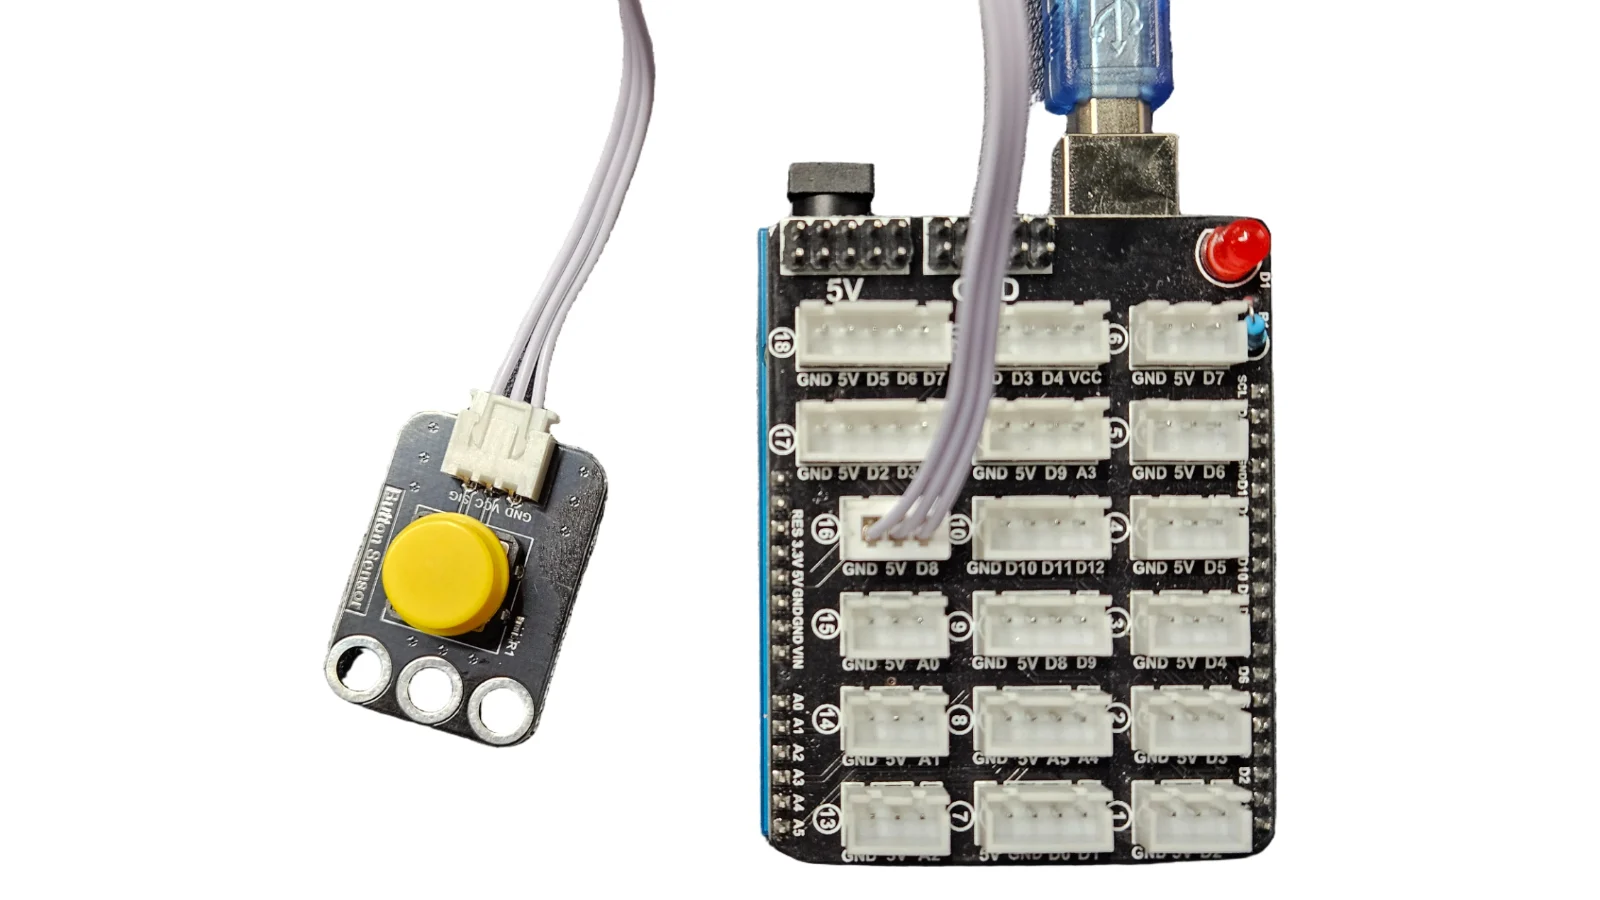
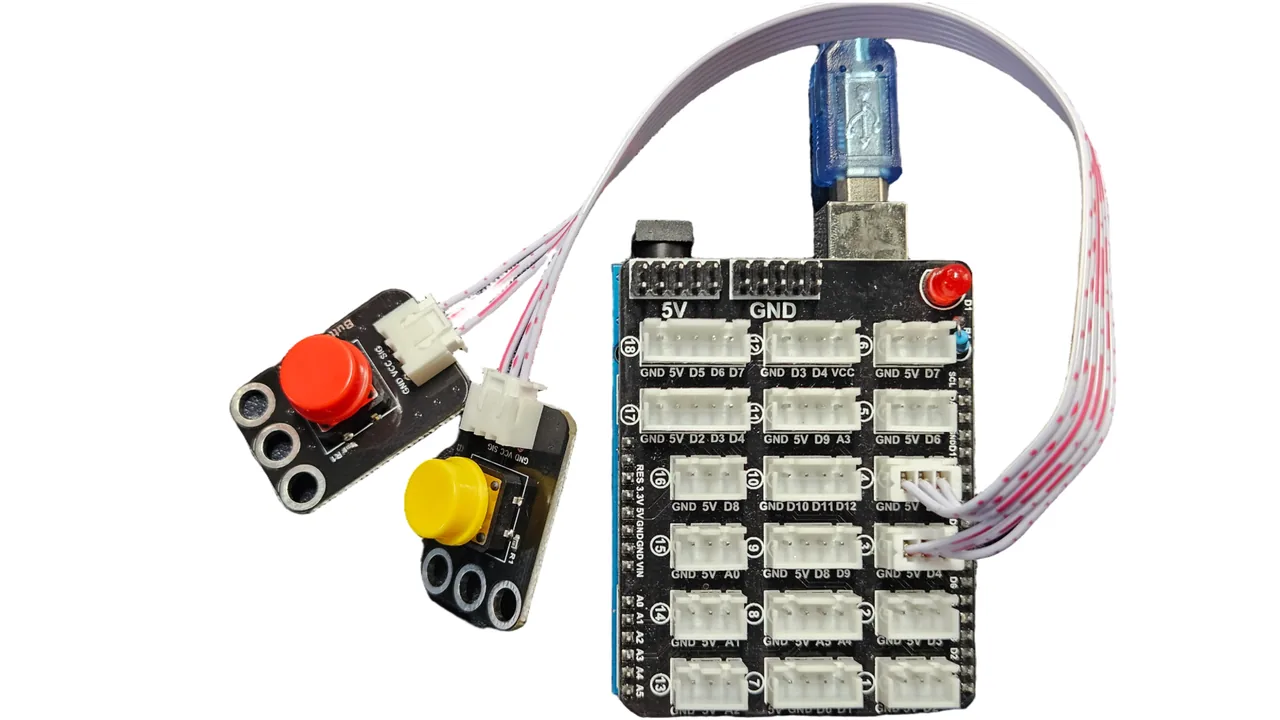
결선 사진 webp 갱신 + 두더지·청기백기 1판으로 단순화
- wiring-button: 새 결선 사진 png→webp 변환(옛 webp 덮어쓰기), png 정리
- 두더지: 2판(느긋·번개) → 1판(40초·목표14)으로 통합 — '왜 두 판?' 해소
- 청기백기: 2판 → 1판(명령14·목표10)으로 통합
- 단계 표기/통과 판정 단일 라운드 기준으로 정리

Claude-Session: https://claude.ai/code/session_01M8NgSv7uof5BXpE7mwceCw

diff --git a/src/scenes/buttonGame.js b/src/scenes/buttonGame.js
@@ -12,8 +12,7 @@ import { board } from '../app/board.js';
 const PINS = [4, 5];   // 구멍 0·1 ↔ 택트스위치 핀 D4·D5 (쉴드 포트 3·4)
 const HOLES = PINS.length;
 const GAMES = [
-  { key: 'easy', no: 1, name: '느긋한 두더지 들판', time: 30, target: 8,  upMin: 950, upMax: 1500, gapMin: 700, gapMax: 1100, golden: 0.16 },
-  { key: 'hard', no: 2, name: '번개 두더지 들판',   time: 30, target: 13, upMin: 650, upMax: 1050, gapMin: 460, gapMax: 820,  golden: 0.22 },
+  { key: 'main', no: 1, name: '두더지 들판', time: 40, target: 14, upMin: 800, upMax: 1300, gapMin: 560, gapMax: 980, golden: 0.18 },
 ];
 
 const bgImg = new Image(); bgImg.onerror = () => { if (!bgImg._p) { bgImg._p = 1; bgImg.src = '/brand/stage-button-bg.png'; } }; bgImg.src = '/brand/stage-button-bg.webp';
@@ -138,7 +137,7 @@ export function showButtonGame(root, { onExit } = {}) {
   root.querySelector('#bt-start').onclick = () => { root.querySelector('#bt-prep').classList.add('hide'); skipBtn.hidden = false; startFlow(); };
 
   // ── 플로우 ──
-  const cleared = { easy: false, hard: false };
+  const cleared = {};
   let gi = 0, game = GAMES[0];
   const holes = Array.from({ length: HOLES }, () => ({ up: false, hit: false, golden: false, t: 0, dur: 0, pop: 0 }));
   const whack = Array(HOLES).fill(0), parts = [], pops = [], hitFx = Array(HOLES).fill(0);
@@ -150,8 +149,8 @@ export function showButtonGame(root, { onExit } = {}) {
   function nextGame() { if (gi >= GAMES.length) { finishAll(); return; } game = GAMES[gi]; showIntro(); }
   function showIntro() {
     bgm.setDuck(1); hud.hidden = true;
-    const el = panel(`<div class="lp-no">${game.no} / ${GAMES.length} 단계</div><h2>🔨 ${game.name}</h2>
-      <p class="prep-sub">${game.time}초 안에 두더지를 <b>${game.target}마리</b> 이상 잡으면 통과! 튀어나온 두더지의 버튼(또는 구멍 클릭·1·2·3)을 재빨리 눌러요. ✨금두더지=3점, 연속으로 잡으면 콤보 보너스! ${game.no === 2 ? '두더지가 더 빨라요 ⚡' : ''}</p>
+    const el = panel(`<h2>🔨 ${game.name}</h2>
+      <p class="prep-sub">${game.time}초 안에 두더지를 <b>${game.target}마리</b> 이상 잡으면 통과! 튀어나온 두더지의 버튼(또는 구멍 클릭·1·2)을 재빨리 눌러요. ✨금두더지=3점, 연속으로 잡으면 콤보 보너스!</p>
       <p class="lp-cond">⏱ 시간 안에 🔨 목표 점수 달성 = 통과!</p><button class="cel-go" id="lp-go">시작 ▶</button>`);
     el.querySelector('#lp-go').onclick = () => { el.remove(); beginPlay(); };
   }
@@ -160,20 +159,20 @@ export function showButtonGame(root, { onExit } = {}) {
     for (const m of holes) Object.assign(m, { up: false, hit: false, golden: false, t: 0, dur: 0, pop: 0 });
     for (let i = 0; i < HOLES; i++) { whack[i] = 0; hitFx[i] = 0; }
     Object.assign(state, { phase: 'count', countT: performance.now(), score: 0, combo: 0, bestCombo: 0, target: game.target, timeLeft: game.time, ended: false, spawnAt: performance.now() + 800 });
-    elTarget.textContent = game.target; elStage.textContent = `${game.no}단계 · ${game.name}`; sync();
+    elTarget.textContent = game.target; elStage.textContent = game.name; sync();
     hud.hidden = false;
   }
   function showResult(grade, pass) {
     bgm.setDuck(1); const last = gi === GAMES.length - 1;
     const el = panel(`<div class="lp-grade lp-${grade}">${grade}<span>등급</span></div><h2>${pass ? '두더지 소탕! 🎉' : '시간 초과! ⏱'}</h2>
       <p class="prep-sub">${game.name} · 🔨 ${state.score}마리 (목표 ${state.target}) · 최고 콤보 ${state.bestCombo}</p>
-      <p class="lp-cond">${pass ? (last ? '두 들판 클리어! 메달을 받자 🏅' : '다음 들판으로 ▶') : `목표 ${state.target}마리에 조금 모자라요 — 다시!`}</p>
-      <button class="cel-go" id="lp-next">${pass ? (last ? '메달 받기 🏅' : '다음 들판 ▶') : '다시 도전 ▶'}</button>`);
+      <p class="lp-cond">${pass ? '두더지 소탕 완료! 메달을 받자 🏅' : `목표 ${state.target}마리에 조금 모자라요 — 다시!`}</p>
+      <button class="cel-go" id="lp-next">${pass ? '메달 받기 🏅' : '다시 도전 ▶'}</button>`);
     el.querySelector('#lp-next').onclick = () => { el.remove(); if (pass) { cleared[game.key] = true; gi++; nextGame(); } else beginPlay(); };
   }
   function finishAll() {
     cleanup();
-    if (cleared.easy && cleared.hard) { progress.mark('button'); celebrateRoom({ title: '두더지 마스터! 🔨', message: '버튼(디지털 입력)으로 두더지를 재빨리 잡았어요 — 🔨 두더지 메달 획득!', exitLabel: '전시관으로 ▶', onExit: () => onExit?.() }); }
+    if (GAMES.every((g) => cleared[g.key])) { progress.mark('button'); celebrateRoom({ title: '두더지 마스터! 🔨', message: '버튼(디지털 입력)으로 두더지를 재빨리 잡았어요 — 🔨 두더지 메달 획득!', exitLabel: '전시관으로 ▶', onExit: () => onExit?.() }); }
     else onExit?.();
   }
   skipBtn.onclick = () => { document.querySelectorAll('.led-panel').forEach((e) => e.remove()); cleared[game.key] = true; state.ended = true; state.phase = 'result'; bgm.setDuck(1); gi++; nextGame(); };

diff --git a/src/scenes/flagGame.js b/src/scenes/flagGame.js
@@ -15,8 +15,7 @@ const FLAGS = PINS.length;
 const COL = ['70,150,255', '232,236,244'];      // 청기 파랑 / 백기 흰
 const NAME = ['청기', '백기'];
 const GAMES = [
-  { key: 'easy', no: 1, name: '느긋한 청기백기', count: 12, target: 9,  window: 1700, gap: 600, trick: 0.22 },
-  { key: 'hard', no: 2, name: '번개 청기백기',   count: 14, target: 11, window: 1050, gap: 420, trick: 0.34 },
+  { key: 'main', no: 1, name: '청기백기', count: 14, target: 10, window: 1350, gap: 520, trick: 0.28 },
 ];
 
 const bgImg = new Image(); bgImg.onerror = () => { if (!bgImg._p) { bgImg._p = 1; bgImg.src = '/brand/stage-flag-bg.png'; } }; bgImg.src = '/brand/stage-flag-bg.webp';
@@ -140,7 +139,7 @@ export function showFlagGame(root, { onExit } = {}) {
   root.querySelector('#fl-start').onclick = () => { root.querySelector('#fl-prep').classList.add('hide'); skipBtn.hidden = false; startFlow(); };
 
   // ── 상태 ──
-  const cleared = { easy: false, hard: false };
+  const cleared = {};
   let gi = 0, game = GAMES[0];
   const up = [false, false];           // 깃발 상태(올림/내림)
   const anim = [{ t: 0 }, { t: 0 }];   // 토글 애니메이션
@@ -154,9 +153,9 @@ export function showFlagGame(root, { onExit } = {}) {
   function nextGame() { if (gi >= GAMES.length) { finishAll(); return; } game = GAMES[gi]; showIntro(); }
   function showIntro() {
     bgm.setDuck(1); hud.hidden = true; pads.hidden = true;
-    const el = panel(`<div class="lp-no">${game.no} / ${GAMES.length} 단계</div><h2>🚩 ${game.name}</h2>
+    const el = panel(`<h2>🚩 ${game.name}</h2>
       <p class="prep-sub">명령 <b>${game.count}</b>번 중 <b>${game.target}</b>번 이상 맞히면 통과! 진행자의 말을 잘 듣고 깃발을 올리거나 내려요.
-        <b>이미 그 상태면 가만히!</b> ${game.no === 2 ? '명령이 더 빨라요 ⚡' : ''}</p>
+        <b>이미 그 상태면 가만히!</b></p>
       <p class="lp-cond">🚩 청기=버튼1(D4·포트3) · 백기=버튼2(D5·포트4)</p><button class="cel-go" id="lp-go">시작 ▶</button>`);
     el.querySelector('#lp-go').onclick = () => { el.remove(); beginPlay(); };
   }
@@ -165,7 +164,7 @@ export function showFlagGame(root, { onExit } = {}) {
     up[0] = up[1] = false; anim[0].t = anim[1].t = 0;
     Object.assign(state, { phase: 'count', countT: performance.now(), score: 0, combo: 0, bestCombo: 0, target: game.target,
       ended: false, cmd: null, resolved: false, idx: 0, nextAt: performance.now() + 3000 + 400, judge: null });
-    elTarget.textContent = game.target; elStage.textContent = `${game.no}단계 · ${game.name}`; elLeft.textContent = game.count;
+    elTarget.textContent = game.target; elStage.textContent = game.name; elLeft.textContent = game.count;
     sync(); hud.hidden = false; pads.hidden = false;
   }
   function nextCommand(now) {
@@ -195,13 +194,13 @@ export function showFlagGame(root, { onExit } = {}) {
     bgm.setDuck(1); pads.hidden = true; const last = gi === GAMES.length - 1;
     const el = panel(`<div class="lp-grade lp-${grade}">${grade}<span>등급</span></div><h2>${pass ? '명령 완벽 수행! 🎉' : '조금 아쉬워요! 🚩'}</h2>
       <p class="prep-sub">${game.name} · 🚩 ${state.score}점 (목표 ${state.target}) · 최고 콤보 ${state.bestCombo}</p>
-      <p class="lp-cond">${pass ? (last ? '두 판 클리어! 메달을 받자 🏅' : '다음 판으로 ▶') : `목표 ${state.target}점에 살짝 모자라요 — 다시!`}</p>
-      <button class="cel-go" id="lp-next">${pass ? (last ? '메달 받기 🏅' : '다음 판 ▶') : '다시 도전 ▶'}</button>`);
+      <p class="lp-cond">${pass ? '청기백기 통과! 메달을 받자 🏅' : `목표 ${state.target}점에 살짝 모자라요 — 다시!`}</p>
+      <button class="cel-go" id="lp-next">${pass ? '메달 받기 🏅' : '다시 도전 ▶'}</button>`);
     el.querySelector('#lp-next').onclick = () => { el.remove(); if (pass) { cleared[game.key] = true; gi++; nextGame(); } else beginPlay(); };
   }
   function finishAll() {
     cleanup();
-    if (cleared.easy && cleared.hard) { progress.mark('flag'); celebrateRoom({ title: '청기백기 챔피언! 🚩', message: '명령(디지털 입력)을 잘 듣고 청기·백기를 척척 — 🚩 깃발 메달 획득!', exitLabel: '전시관으로 ▶', onExit: () => onExit?.() }); }
+    if (GAMES.every((g) => cleared[g.key])) { progress.mark('flag'); celebrateRoom({ title: '청기백기 챔피언! 🚩', message: '명령(디지털 입력)을 잘 듣고 청기·백기를 척척 — 🚩 깃발 메달 획득!', exitLabel: '전시관으로 ▶', onExit: () => onExit?.() }); }
     else onExit?.();
   }
   skipBtn.onclick = () => { document.querySelectorAll('.led-panel').forEach((e) => e.remove()); cleared[game.key] = true; state.ended = true; state.phase = 'result'; bgm.setDuck(1); gi++; nextGame(); };
